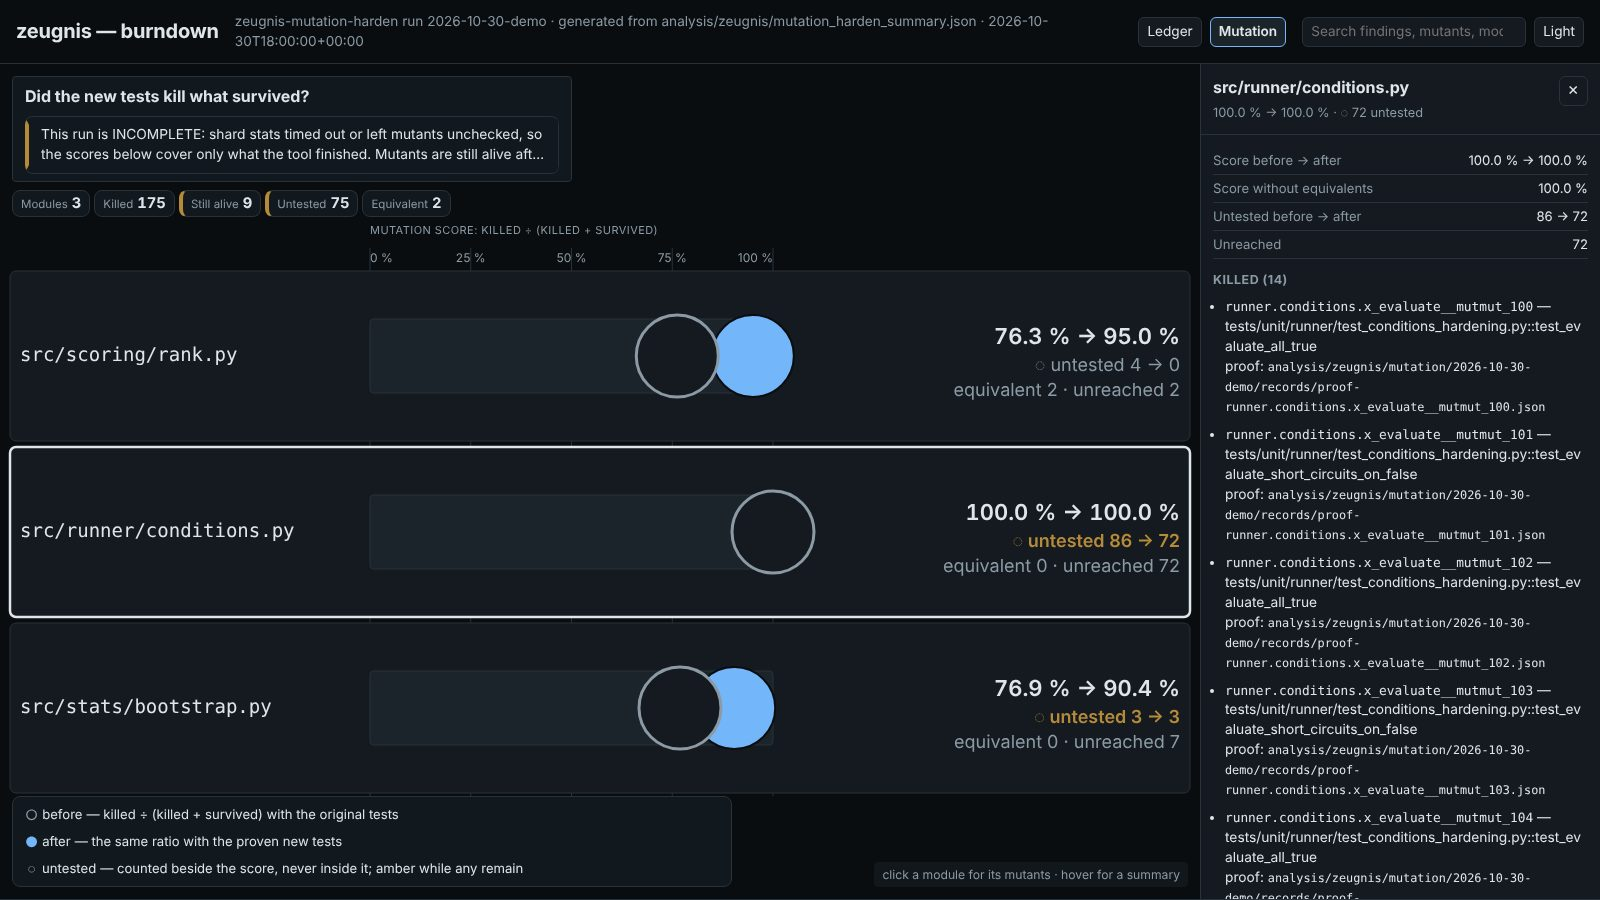
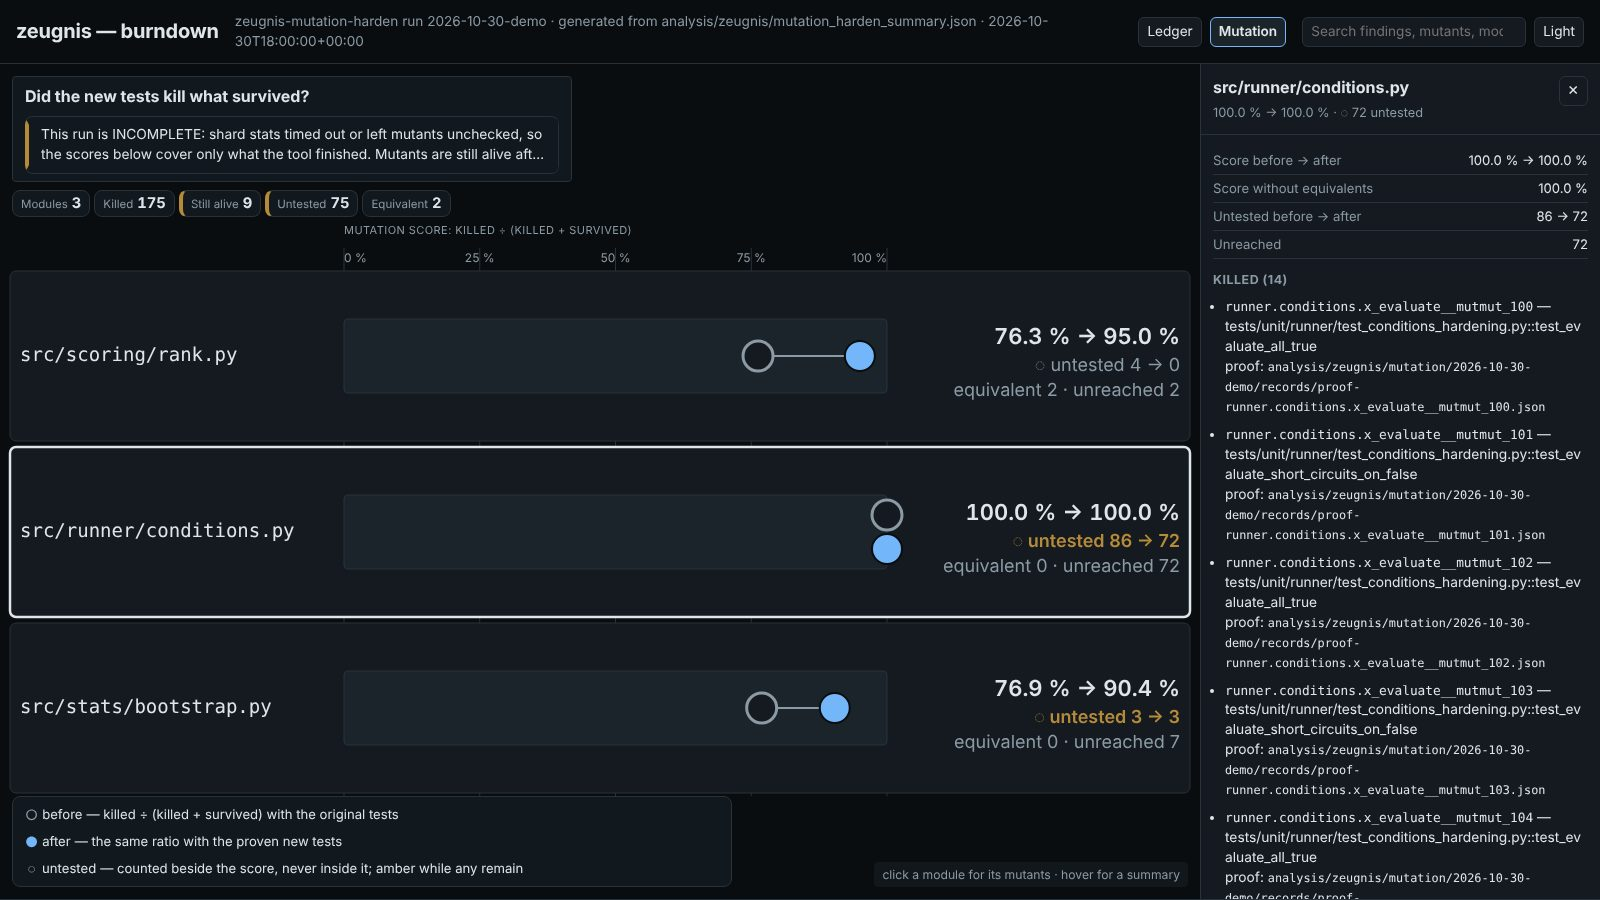
fix(zeugnis): mutation marks no longer overlap
The before ring and after dot scaled with the track to a 44px radius on a
short track, so a 76 % -> 95 % move drew two overlapping discs, and an
unchanged score (100 % -> 100 %) hid the dot entirely under the ring's
panel-coloured fill. Radius capped at 15px, the score column narrowed so
the track gets the width, and marks closer than two radii sit on the
track's upper and lower edge. Screenshot re-captured (ink 0.653).

Claude-Session: https://claude.ai/code/session_01T7ct7CVxAQqp3tqKbKtmYX

diff --git a/plugins/zeugnis/assets/burndown-viewer.html b/plugins/zeugnis/assets/burndown-viewer.html
@@ -411,10 +411,13 @@
     const k = Math.max(1, Math.min(1.7, rowH / 120));
     const px = (n) => Math.round(n * k) + "px";
     const labelW = Math.min(Math.max(150, Math.ceil(Math.max(...mods.map((m) => m.module.length)) * 7.9 * k) + 16), Math.round(W * 0.3), 420);
-    const figW = Math.min(Math.max(210, Math.round(W * 0.2 * k)), 380);
+    // the score column is text, not figure: keep it narrow so the track gets the width
+    const figW = Math.min(Math.max(190, Math.round(W * 0.15 * k)), 270);
     const rowsY = inset.top + axisH;
     const trackH = Math.max(18, Math.min(120, Math.round(rowH * 0.42)));
-    const rad = Math.max(8, Math.min(44, Math.round(trackH * 0.55)));
+    // Marks stay small relative to the track: at 44px (the old cap) a 76 % -> 95 % move put the
+    // two centres closer than two radii, and an unchanged score hid the dot under the ring.
+    const rad = Math.max(7, Math.min(15, Math.round(trackH * 0.3)));
     // a mark at 0 % or 100 % overhangs the track by its radius, so the track keeps clear of the text on both sides
     const tx0 = padX + labelW + 14 + rad, tx1 = Math.max(tx0 + 120, W - padX - figW - 14 - rad);
     const sx = (v) => tx0 + Math.max(0, Math.min(1, v)) * (tx1 - tx0);
@@ -434,10 +437,15 @@
       fitText(name, m.module, labelW);
       svgEl("rect", { class: "track", x: tx0, y: cy - trackH / 2, width: tx1 - tx0, height: trackH, rx: 4 }, svg);
       const b = m.before.score, a = m.after.score;
-      if (b !== null && b !== undefined && a !== null && a !== undefined && b !== a) svgEl("line", { class: "link-seg", x1: sx(b), x2: sx(a), y1: cy, y2: cy }, svg);
-      // The ring is drawn last, so an unchanged score still shows both marks.
-      if (a !== null && a !== undefined) svgEl("circle", { class: "m-after", cx: sx(a), cy, r: rad }, svg);
-      if (b !== null && b !== undefined) svgEl("circle", { class: "m-before", cx: sx(b), cy, r: rad }, svg);
+      const hasB = b !== null && b !== undefined, hasA = a !== null && a !== undefined;
+      // Two marks closer than two radii (or an unchanged score) would overlap and hide each other:
+      // then the ring sits on the track's upper edge and the dot on its lower edge, so both read.
+      const close = hasB && hasA && Math.abs(sx(a) - sx(b)) < 2 * rad + 4;
+      const off = close ? Math.min(trackH / 2, rad + 2) : 0;
+      const yb = cy - off, ya = cy + off;
+      if (hasB && hasA && b !== a) svgEl("line", { class: "link-seg", x1: sx(b), x2: sx(a), y1: yb, y2: ya }, svg);
+      if (hasA) svgEl("circle", { class: "m-after", cx: sx(a), cy: ya, r: rad }, svg);
+      if (hasB) svgEl("circle", { class: "m-before", cx: sx(b), cy: yb, r: rad }, svg);
       const fx = W - padX;
       svgText(svg, { class: "t-score", x: fx, "text-anchor": "end", y: cy - 8 * k, style: "font-size:" + px(15) }, moduleFigures(m));
       svgText(svg, { class: "t-sub" + (untested > 0 ? " t-hot" : ""), x: fx, "text-anchor": "end", y: cy + 10 * k, style: "font-size:" + px(12) }, "◌ untested " + (m.before.noTests || 0) + " → " + untested);

diff --git a/plugins/zeugnis/CHANGELOG.md b/plugins/zeugnis/CHANGELOG.md
@@ -8,7 +8,7 @@ are listed in `test/plugins/retired-groups.txt` and remain valid.
 ### Added
 - **Report viewer on the shared report kit** (`tools/report-kit/`, vendored into `scripts/` and `assets/` via `.rrt.toml` `artifact_targets`): every finding carries its evidence, with filters, search, deep links, light and dark themes and drill-down. The viewer builder and report data are unchanged; its committed screenshot is regenerated with `scripts/ci/capture_viewer_screenshot.py`.
 ### Changed
-- **Mutation view fills the stage**: track height, dots and labels scale with the available height (ink 45 % -> 65 %). Measured by drawn pixels (`capture_viewer_screenshot.py` ink share), not by the figure's box; the committed screenshot is now the 1600x900 first screen.
+- **Mutation view fills the stage, its marks never overlap**: track height, dots and labels scale with the available height (ink 45 % -> 65 %). The before ring and after dot are capped at a 15px radius, and two marks closer than two radii (or an unchanged score, where the ring used to hide the dot) sit on the track's upper and lower edge. Measured by drawn pixels (`capture_viewer_screenshot.py` ink share), not by the figure's box; the committed screenshot is now the 1600x900 first screen.
 
 ## [1.3.0] - 2026-10-30
 ### Added
